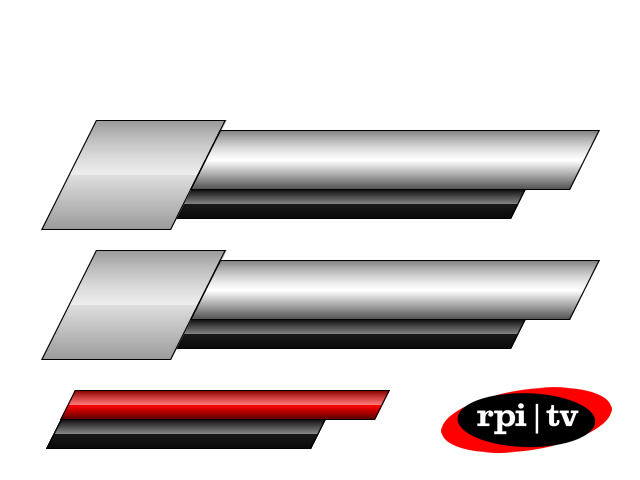
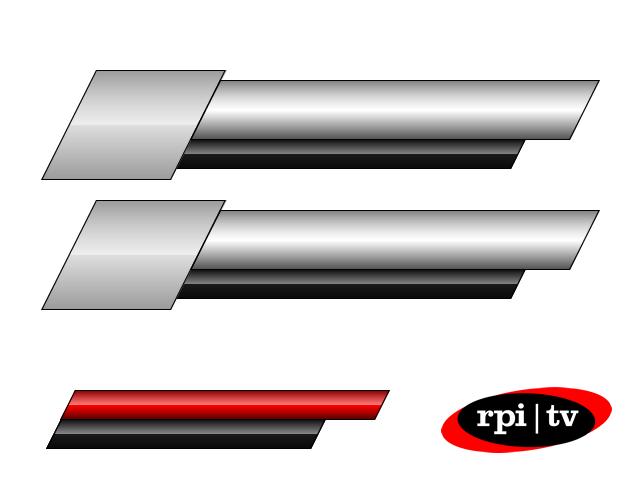
Sample of first template (plaintext), opening title fixed for non-ECAC play

diff --git a/gentitle.php b/gentitle.php
@@ -217,7 +217,7 @@ if($row["special"] == 5) {
   imagefttext($im, 18, 0, 310-($dummy[2]-$dummy[0])/2, 444, $white, $font, $row["title"]);
 }
 if($row["special"] == 1) {
-  $voffset = 130; // Vertical offset from top of frame to top of bar1
+  $voffset = 80; // Vertical offset from top of frame to top of bar1
   $team1bar = array(
       220,$voffset,
       598,$voffset,
@@ -230,7 +230,7 @@ if($row["special"] == 1) {
       598,$voffset,
       568,$voffset+59,
       190,$voffset+59);
-  $voffset -= 130;
+  $voffset -= $spacing;
 
   imagefilledpolygon($im,$team1bar,4,$teamcolor);
   imagefilledpolygon($im,$team2bar,4,$team2color);

diff --git a/genall.php b/genall.php
@@ -8,7 +8,6 @@ if ($cache)
   $query = "TRUNCATE TABLE cache";
   $result = mysql_query($query) or die("<b>YOU DID SOMETHING WRONG YOU IDIOT</b>.\n<br />Query: " . $query . "<br />\nError: (" . mysql_errno() . ") " . mysql_error());
 }?>
-<body bgcolor="green">
 <h3>genall.php</h3>
 <form action="genall.php" method="GET">
   Clear Cache?<input type="submit" value="Empty" name="cache">
